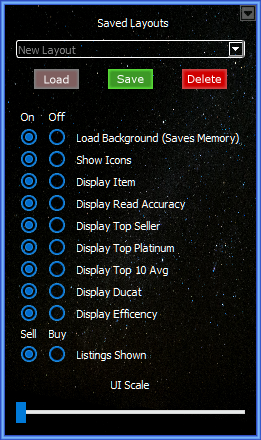
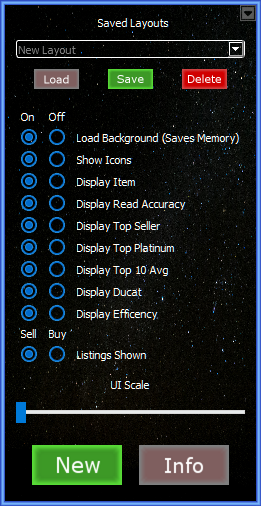
Updated Readme

Changed region(s): [[0.0307, 0.0, 0.9808, 0.8568], [0.0307, 0.8568, 0.9808, 1.0]]

diff --git a/Readme.md b/Readme.md
@@ -86,13 +86,17 @@ There is 2 new options at the top compared to what is in the individual settings
 "Show Icons" This determines whether or not the relic, platinum, and ducat pictures are displayed on the info windows.
 
 <br/>
-At the bottom you can determine which listing type is displayed.
+You can determine also which listing type is displayed.
 
 "Sell" will show the WTS (Want To Sell) listings from warframe.market<br />
 "Buy" will show the WTB (Want To Buy) listings
 
 <br/>
-You can also increase the UI scale up to 2x, using the slider at the bottom, this was mostly done to help support 4k monitors.
+You can increase the UI scale up to 2x, using the slider at the bottom, this was mostly done to help support 4k monitors.
+
+<br/>
+You can also create a new scan window with the "New" button at the bottom<br/>
+The "Info" Button will take you to the Readme on GitHub
 
 # Thanks
 
